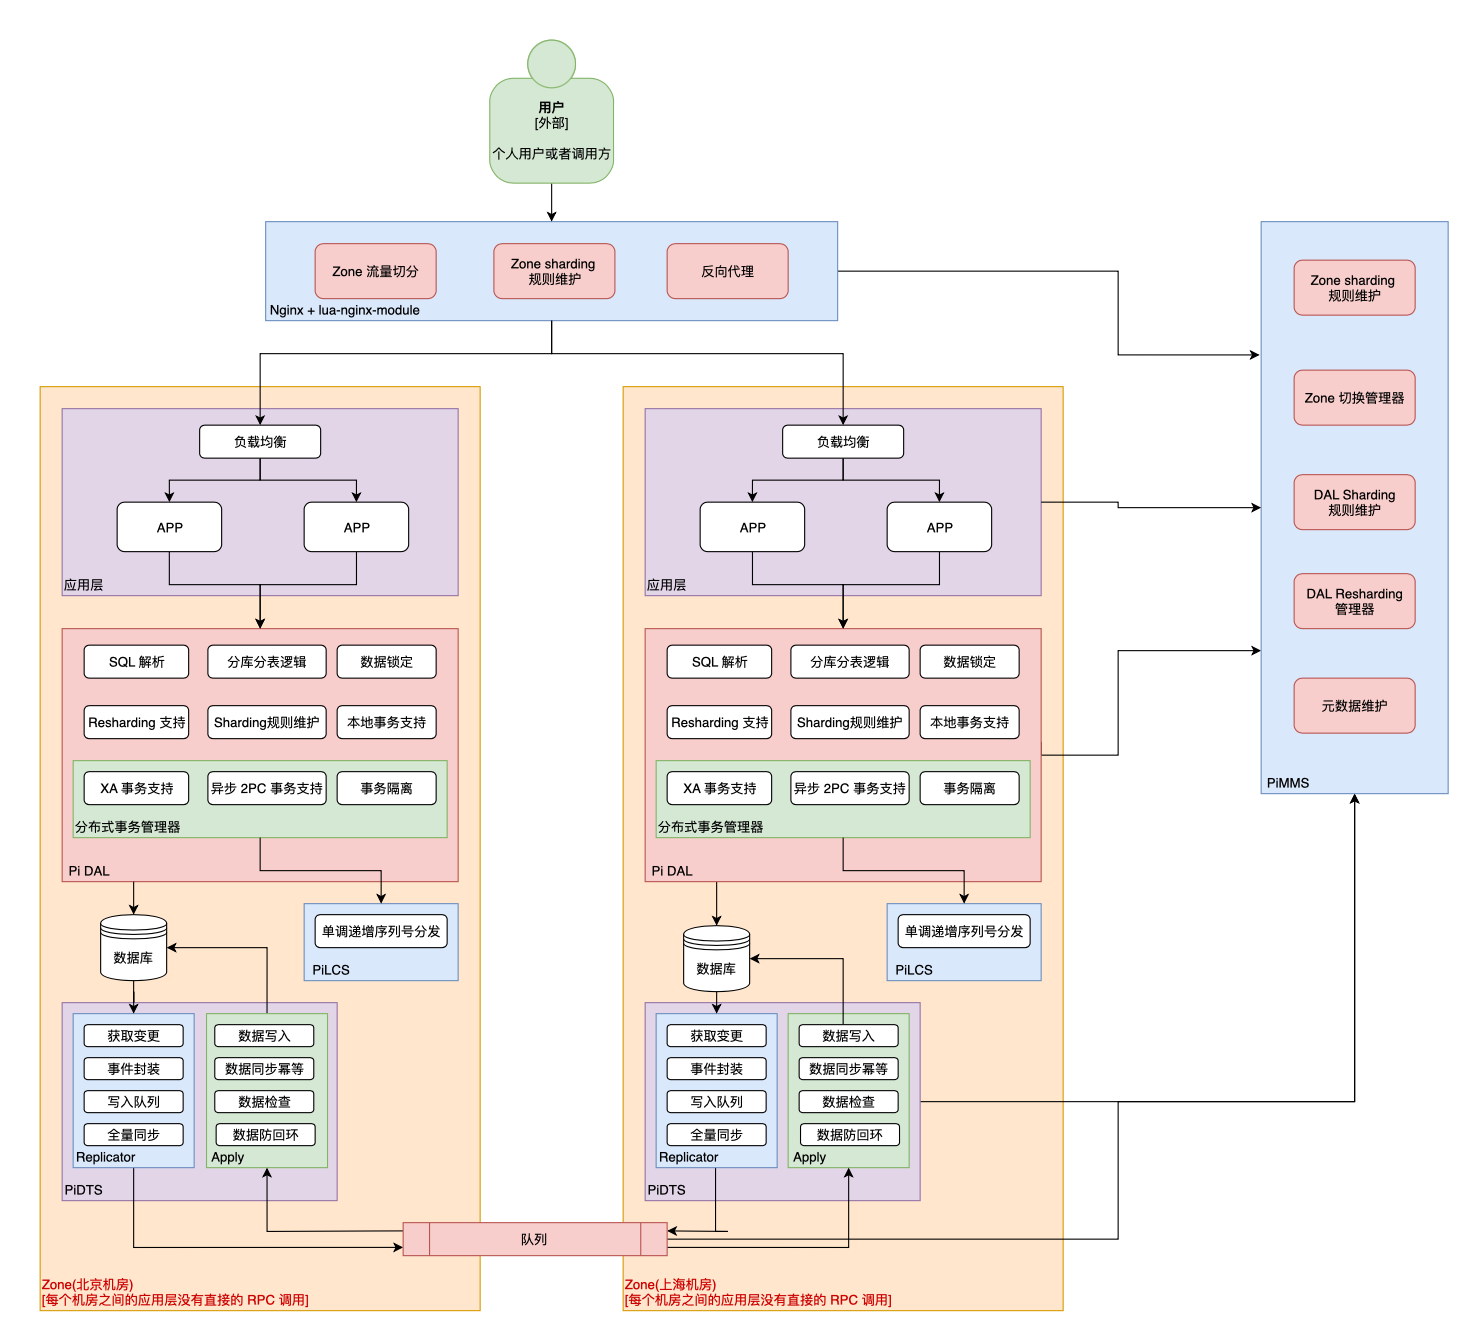
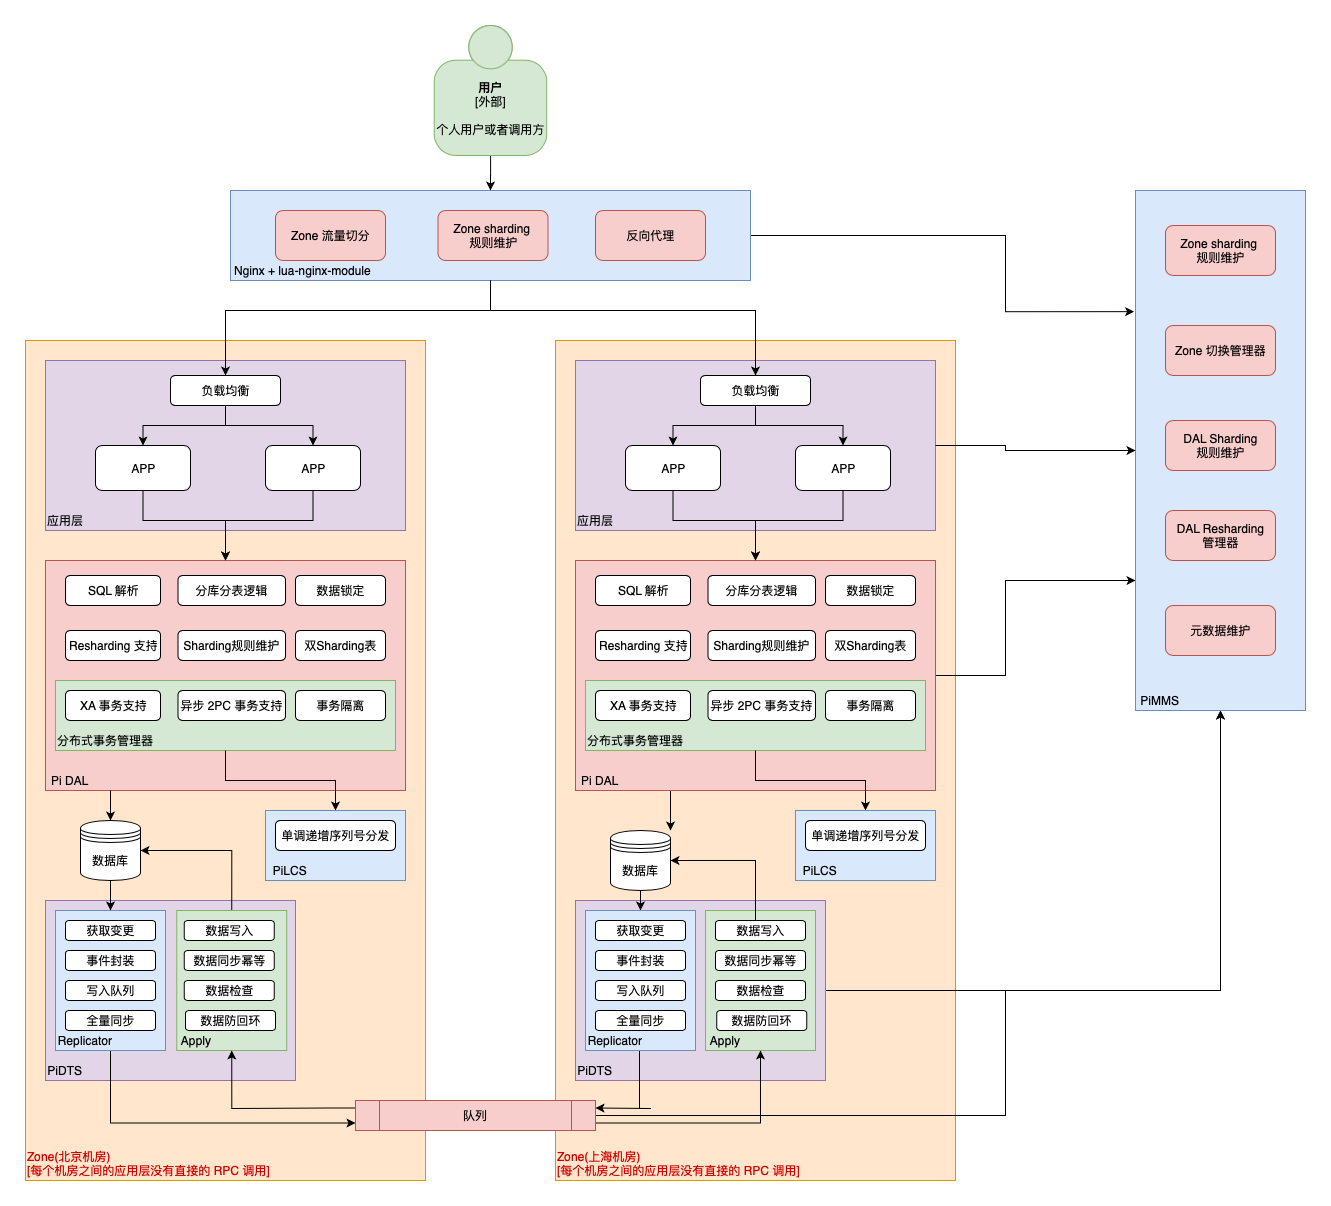
docs: add sharding paging.

Changed region(s): [[0.0, 0.0, 1.0, 1.0]]

diff --git a/pidal/sharding-paging.md b/pidal/sharding-paging.md
@@ -1,0 +1,220 @@
+# 跨 Sharding 分页的难题
+
+分页需求在互联网业务中是很常见的需求。在单机模式下，通过 `offset 20 limit 10` 是很容易实现的。但是当数据量达到一定量级，对一个表的数据进行[分库分表](/pidal/sharding)之后，事情就变得麻烦了。不管使用那种 sharding 算法，都需要解决这个问题。下面就介绍几种解决方法。
+
+假设场景为：分页拉取为 ID 为 1 的视频点赞的用户。数据按照 `user_id % 2` sharding，两个表的表结构一致：
+```
+CREATE TABLE `user_like_video` (
+ `id` bigint(20) NOT NULL AUTO_INCREMENT COMMENT '自增ID',
+ `user_id` bigint(20) NOT NULL DEFAULT '0' COMMENT '用户 ID',
+ `video_id` bigint(20) NOT NULL DEFAULT '0' COMMENT '视频 ID',
+ `create_time` bigint(20) NOT NULL DEFAULT '0' COMMENT '创建时间',
+ PRIMARY KEY (`id`),
+ UNIQUE KEY un_user_video(user_id, video_id)
+) ENGINE=InnoDB
+```
+两个表各自的数据为
+user_like_video_1 :
+
+| user_id | video_id | create_time |
+| :-- | :-- | :-- |
+| 1 | 1 | 10000001 |
+| 3 | 1 | 10000003 |
+| 5 | 1 | 10000005 |
+| 7 | 1 | 10000007 |
+| 9 | 1 | 10000009 |
+| 11 | 1 | 10000011 |
+| 13 | 1 | 10000013 |
+| 15 | 1 | 10000015 |
+
+user_like_video_2 :
+
+| user_id | video_id | create_time |
+| :-- | :-- | :-- |
+| 2 | 1 | 10000002 |
+| 4 | 1 | 10000004 |
+| 6 | 1 | 10000006 |
+| 8 | 1 | 10000008 |
+| 10 | 1 | 10000010 |
+| 12 | 1 | 10000012 |
+| 14 | 1 | 10000014 |
+| 16 | 1 | 10000016 |
+
+## 一些方法的介绍
+### 全局视野法
+比如原始 SQL 为：`select user_id from user_like_video where video_id = 1 order by create_time offset 6 limit 2`，标示要获取第 6 到 8 个数据。全局视野法或分表向两张表获取前 offset + limit 行数据。
+```
+# user_like_video_1 查询语句
+select create_time, user_id from user_like_video_1 where video_id = 1 order by create_time offset 0 limit (6 + 2)
+
+# user_like_video_2 查询语句
+select create_time, user_id from user_like_video_2 where video_id = 1 order by create_time offset 0 limit (6 + 2)
+```
+这样拿到两个表最前面的 8 条数据，然后对这 8 条数据进行排序，从拿到第 6 到 8 条。
+#### 优点：
+1. 可以精准的返回需要的数据。
+
+#### 缺点：
+1. 数据量大，需要所有 sharding 返回从 0 开始的所有数据，也增加了网络传输。
+2. 需要对每个 sharding 进行重新排序和计算。增加二次消耗。
+3. 随着 offset 的增加性能会下降，比如放 offset 到 1000 的时候，就需要每个 sharding 返回 1000 多条数据。需要在内存中排序 2000 多条数据。这种方式在实际场景中几乎不会被采用。
+
+### 只提供下一页功能
+这种需要业务允许才能使用，比如在上文提到的场景中，需要每次请求提供 `create_time` 作为辅助。
+每页获取 2 条数据。获取第一页数据的时候，因为没有 `create_time`，所以 `create_time` 当作 0 处理，分表向两个 sharding 发送查询：
+```
+# user_like_video_1 查询语句
+select create_time, user_id from user_like_video_1 where video_id = 1 and create_time > 0 order by create_time offset 0 limit 2
+
+# user_like_video_2 查询语句
+select create_time, user_id from user_like_video_2 where video_id = 1 and create_time > 0 order by create_time offset 0 limit 2
+```
+这样总共拿到 4 条数据。内存按照 create_time 排序后返回最前面两条结果。
+| user_id | video_id | create_time |
+| :-- | :-- | :-- |
+| 1 | 1 | 10000001 |
+| 2 | 1 | 10000002 |
+| 3 | 1 | 10000003 |
+| 4 | 1 | 10000004 |
+
+获取下一页的时候带上上次返回的结果里面的 `create_time` `10000002`，这样分表向两个 sharding 发送的查询：
+```
+# user_like_video_1 查询语句
+select create_time, user_id from user_like_video_1 where video_id = 1 and create_time > 10000002 order by create_time offset 0 limit 2
+
+# user_like_video_2 查询语句
+select create_time, user_id from user_like_video_2 where video_id = 1 and create_time > 10000002 order by create_time offset 0 limit 2
+```
+对结果里的 4 条语句在进行排序、返回即可。
+#### 优点
+1. 计算量小，每个 sharding 只返回一页的数据量。
+2. 性能稳定，不会随着页数的增加而引起性能下降。
+#### 缺点
+1. 需要业务配合传输排序依赖的字段。
+2. 不能跳跃页数，只能一页一页的顺序拉取。
+
+### 二次查询法
+二次查询法本来不在考虑之列因为这种方法可能会返回错误的结果。这种方法只能适用于 sharding 分布十分均匀的场景。以上面的场景为例子：  
+比如原始 SQL 为：`select user_id from user_like_video where video_id = 1 order by create_time offset 6 limit 2`，标示要获取第 6 到 8 个数据。二次查询法首先发起第一次查询，向两个 sharding 查询 `offset floor(6/2) limit 2` 的结果：
+```
+# user_like_video_1 第一次查询语句
+select create_time, user_id from user_like_video_1 where video_id = 1 order by create_time offset floor(6/2) limit 2
+
+# user_like_video_2 第一次查询语句
+select create_time, user_id from user_like_video_2 where video_id = 1 order by create_time offset floor(6/2) limit 2
+```
+这样返回 4 条数据：  
+user_like_video_1
+
+| user_id | video_id | create_time |
+| :-- | :-- | :-- |
+| 7 | 1 | 10000007 |
+| 9 | 1 | 10000009 |
+
+user_like_video_2
+
+| user_id | video_id | create_time |
+| :-- | :-- | :-- |
+| 8 | 1 | 10000008 |
+| 10 | 1 | 10000010 |
+
+然后从 4 条结果中找到最小的 `create_time` `10000007` ，然后在获取每个 sharding 结果里面最大的 `create_time` 分别是：`10000009`、`10000010`。这之后发起第二次查询，查询 sharding 里面 `create_time between 10000007 and 当前 sharding 最大值`：
+
+```
+# user_like_video_1 第二次查询语句
+select create_time, user_id from user_like_video_1 where video_id = 1 and create_time between 10000007, 10000009
+
+# user_like_video_2 第二次查询语句
+select create_time, user_id from user_like_video_2 where video_id = 1 and create_time between 10000007, 10000010
+```
+这样返回：
+
+
+| user_id | video_id | create_time |
+| :-- | :-- | :-- |
+| 7 | 1 | 10000007 |
+| 9 | 1 | 10000009 |
+
+user_like_video_2
+
+| user_id | video_id | create_time |
+| :-- | :-- | :-- |
+| 8 | 1 | 10000008 |
+| 10 | 1 | 10000010 |
+
+从第一次查询可以知道 10000007 在 sharding 里面的顺序是 `4`，10000008 在 sharding 里面的顺序也是 `4`，由此可以知道 `create_time < 10000007` 的一共有 6 个，所有就能确认每条数据在全局的排序。
+
+| user_id | video_id | create_time | 全局顺序 |
+| :-- | :-- | :-- | :- |
+| 7 | 1 | 10000007 | 7 |
+| 8 | 1 | 10000008 | 8 |
+| 9 | 1 | 10000009 | 9 |
+| 10 | 1 | 10000010 | 10 |
+
+这样从结果及里面取第 6 到 8 条数据即可。
+
+**但是如果 sharding 分布不均匀。**结果就不准确了。比如当前每个 sharding 的数据分布情况为：
+
+user_like_video_1 :
+
+| user_id | video_id | create_time |
+| :-- | :-- | :-- |
+| 1 | 1 | 10000001 |
+| 3 | 1 | 10000003 |
+| 5 | 1 | 10000005 |
+| 7 | 1 | 10000007 |
+| 9 | 1 | 10000009 |
+
+
+user_like_video_2 :
+
+| user_id | video_id | create_time |
+| :-- | :-- | :-- |
+| 6 | 1 | 10000006 |
+| 8 | 1 | 10000008 |
+
+这个时候原始 SQL ：  
+`select user_id from user_like_video where video_id = 1 order by create_time offset 2 limit 2`  
+第一次查询：  
+`select create_time, user_id from user_like_video_x where video_id = 1 order by create_time offset floor(${offset}/n) limit ${limit}`   
+获取到结果为：
+
+| user_id | video_id | create_time |
+| :-- | :-- | :-- |
+| 3 | 1 | 10000003 |
+| 5 | 1 | 10000005 |
+
+user_like_video_2
+
+| user_id | video_id | create_time |
+| :-- | :-- | :-- |
+| 8 | 1 | 10000008 |
+
+然后在执行第二次查询  
+`select create_time, user_id from user_like_video_x where video_id = 1 and create_time between ${min}, ${max}`   
+返回的结果汇总，但是在计算全局排序的时候，因为 10000008 是在自己的sharding 是第二，10000006 才是第一，这就造成 10000003 在全局里面的顺序无法被正确计算。造成返货错误的结果。
+
+| user_id | video_id | create_time | 全局顺序 | 正确的全局顺序 |
+| :-- | :-- | :-- | :-- | :-- |
+| 3 | 1 | 10000003 | 3 | 2 |
+| 5 | 1 | 10000005 | 4 | 3 |
+| 6 | 1 | 10000006 | 5 | 4 |
+| 8 | 1 | 10000008 | 6 | 5 |
+
+而且放一个 sharding 里面数据为空的时候情况更加明显。
+所以这个方法在实际场景中很难保证绝对的均匀那么这个方法出问题的概率就会很大。不推荐使用。
+
+## 有没有完美的方法？
+上面介绍的方法或多或少都有问题和局限。那么有没有完美的方法呢？首先我们看一下为什么上面的方法都不行？是因为查询需要跨 sharding。为什么需要跨 sharding？因为数据分片的时候是以 user_id 为标准所以在从 video_id 角度查询的时候是无法在同一个 sharding 上完成的？那么如果从 video_id 角度对数据做分片，这样同时有 video_id 和 user_id 这种分片是不是就可以了？
+
+答案是「**是的。**」。
+
+但是，如果数据有两份那就需要保证两份数据是一致的。如果是从一张表异步同步到另一张表，又会有延迟的问题，最好是在同一个操作里面，同时维护两个维度的 sharding。  
+
+
+PiDAL 里的「**双 sharding 表**」就是为这一问题设计的结局方案。
+1. 自动切换 sharding，PiDAL 会解析 SQL，自动分析出应该使用那个 sharding，避免出现跨 sharding 的分页。
+2. 一致性保障，借助 PiDAL 的[事务保障](/pidal/transaction) 机制，可以保障两份数据一致。
+3. 实时性保障，数据在写入的时候实现双写，不会出现异步延迟之类的问题。
+
+[如何使用双 sharding 表？]()

diff --git a/pidts/data-security.md b/pidts/data-security.md
@@ -1,0 +1,22 @@
+# 数据安全保障
+数据安全是最为重要的点，如果无法保障数据的安全，那么后续的其他功能就失去了意义。  
+首先数据复制的流程可以分为两种场景：
+1. 两个 zone 之间正常复制。
+2. 切换 zone 的时候数据复制。
+3. 数据从零开始全量复制。
+
+而这两种场景优惠面对三种 case：
+1. 新增数据的时候。
+2. 删除数据的时候。
+3. 更新数据的时候。
+
+三种场景加上三种 case 在加上各种一场情况下如何处理。
+
+## 可能出现的异常
+在上面的场景和 case 下，可能会出现的异常情况会有那些，那些异常不会出现，这里做一个梳理。
+
+### 负责同步数据的 MQ 是否会丢失消息？
+### 手动修改了数据？校验失败
+### 消息延迟
+### 消息乱序
+### 消息过期被丢弃

diff --git a/_sidebar.md b/_sidebar.md
@@ -3,12 +3,13 @@
 * [Pi 计划是什么？](/)
 * PiDAL
     * [介绍](/pidal/introduction)
-    * [分库分表](/pidal/xx)
-    * [异步事务实现](/pidal/xxxx)
-    * [Resharding](/pidal/xxxxx)
+    * [分库分表](/pidal/sharding)
+    * [跨 Sharding 分页的难题](/pidal/sharding-paging)
+    * [异步事务实现](/pidal/transaction)
+    * [Resharding](/pidal/resharding)
 * PiDTS
     * [介绍](/pidts/introduction)
-    * [数据安全保障](/pidts/xxxx)
+    * [数据安全保障](/pidts/data-security)
     * [复制流程](/pidts/xxxx)
 * PiLCS
     * [介绍](/pilcs/introduction)

diff --git a/pidal/sharding.md b/pidal/sharding.md
@@ -1,0 +1,3 @@
+# 分库分表
+
+### 为什么需要分库分表？
